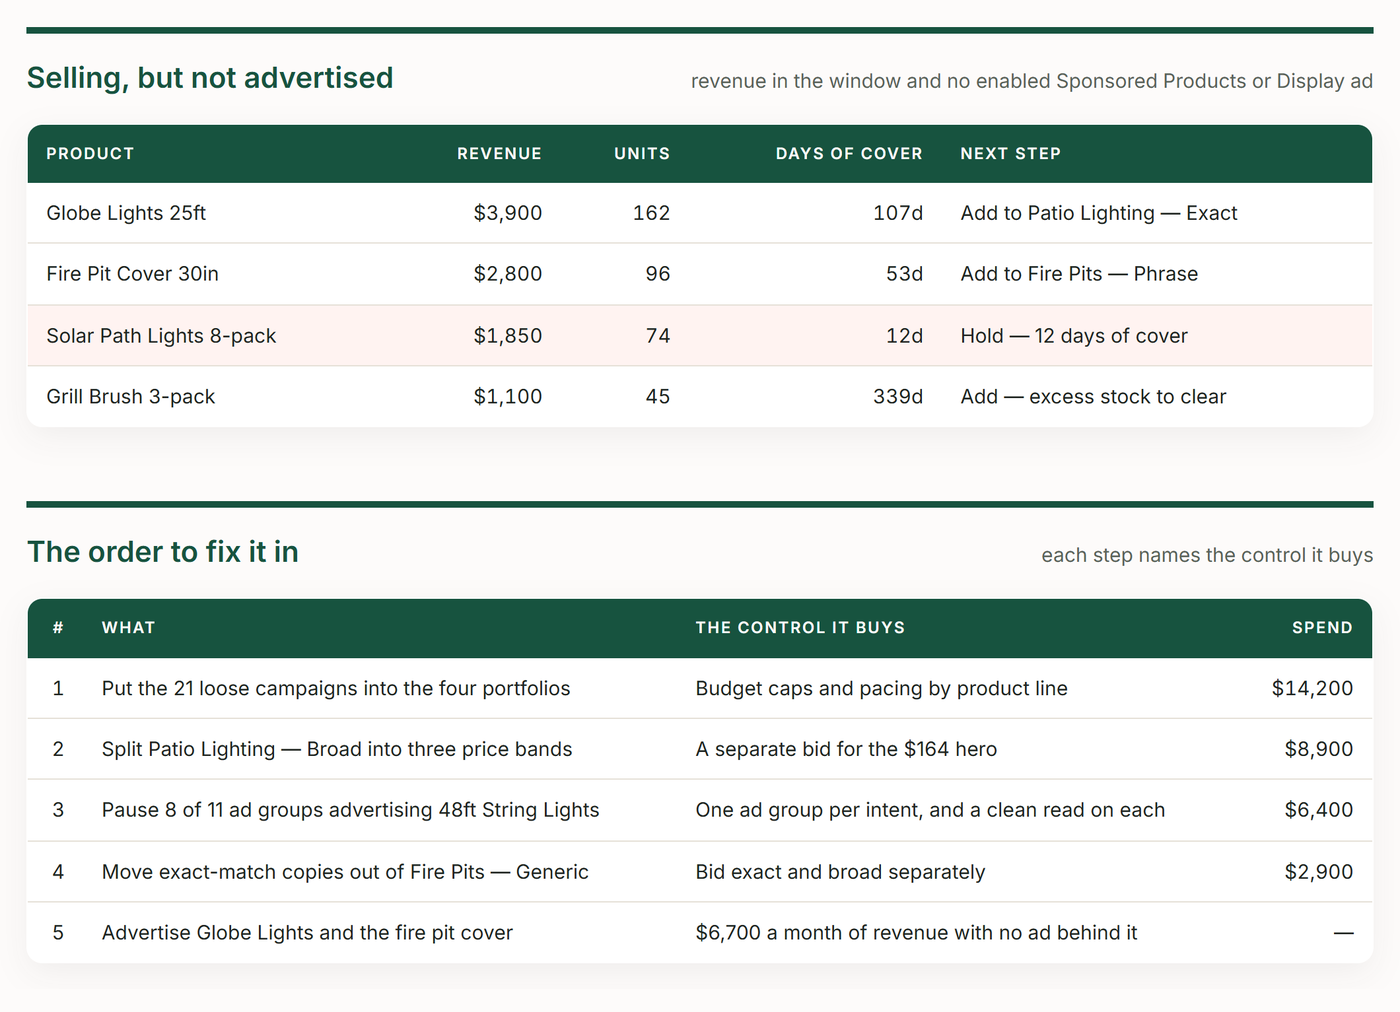
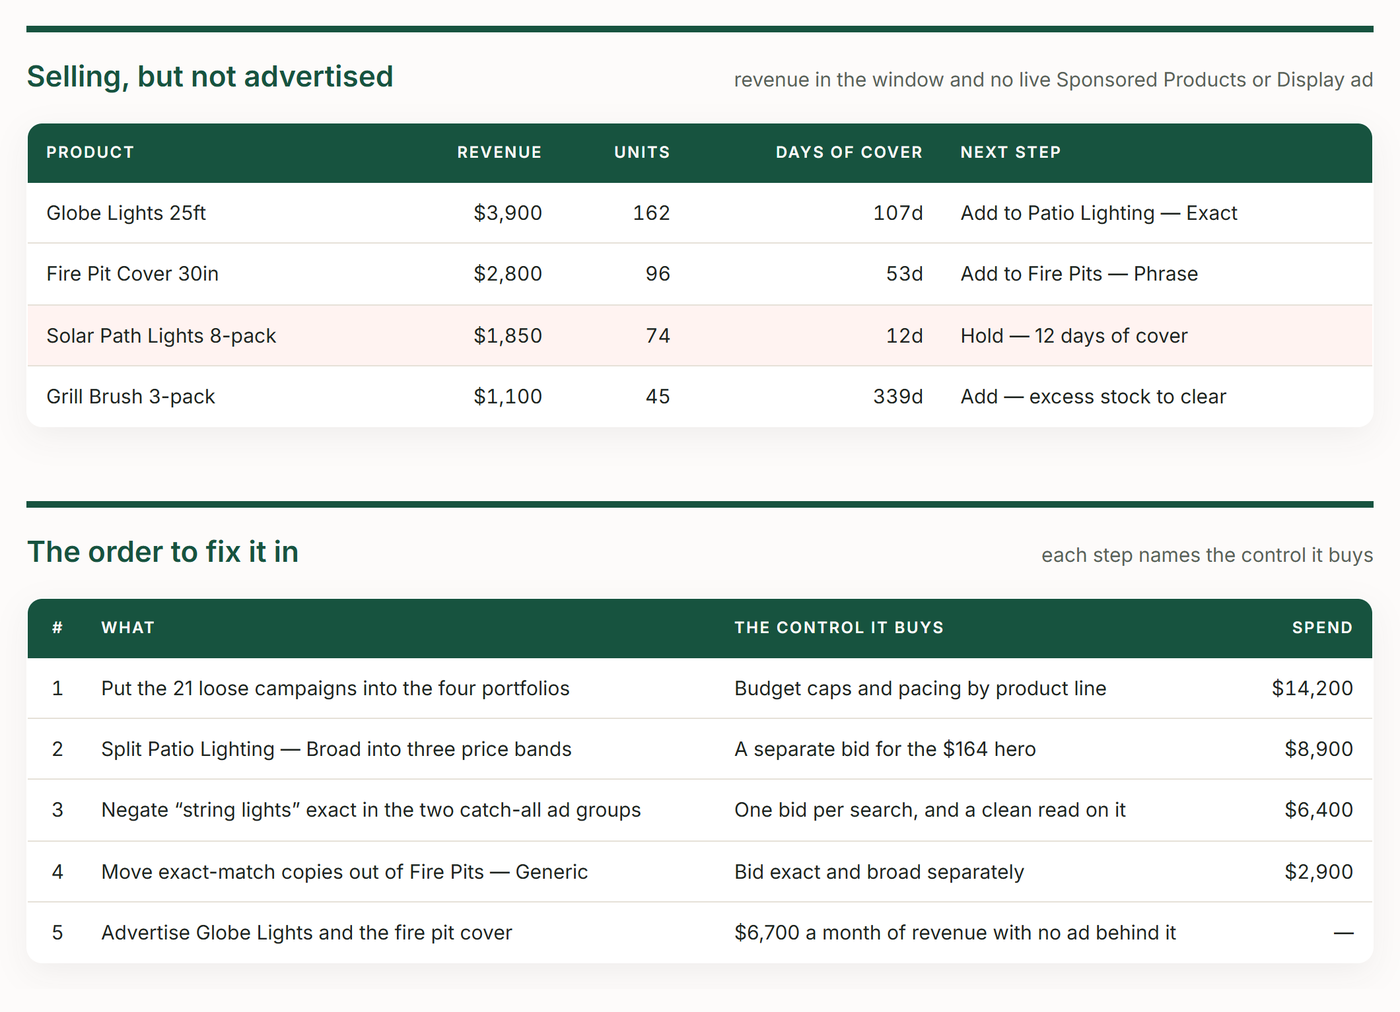
v1.1.0: fixes from a live-account test run
Judges live entities only (an enabled ad in a paused campaign no longer counts), replaces the ad-groups-per-product count with a check for one keyword bid on the same product from several ad groups, and reads portfolio coverage from portfolio_id.

diff --git a/skills/trackiq-amazon-campaign-structure-audit/assets/report-template.html b/skills/trackiq-amazon-campaign-structure-audit/assets/report-template.html
@@ -83,7 +83,7 @@ footer span{font-size:13px;color:var(--text-muted)}
   <p class="sub">How the account is built, and what that makes hard to steer</p>
   <div class="meta">
     <div><span>Window</span>{{WINDOW}}</div>
-    <div><span>Scope</span>Sponsored Products, Brands and Display &middot; enabled only</div>
+    <div><span>Scope</span>Sponsored Products, Brands and Display &middot; live entities only</div>
     <div><span>Campaigns</span>{{N_CAMPAIGNS}} enabled of {{N_CAMPAIGNS_ALL}}</div>
     <div><span>Account</span>{{MARKETPLACE}} {{ACCOUNT_TYPE}}</div>
   </div>
@@ -128,13 +128,14 @@ footer span{font-size:13px;color:var(--text-muted)}
 </section>
 
 <section>
-  <div class="cat-head"><h3>The same product in too many places</h3>
-    <div class="figs">advertised in more than {{SPREAD_MAX}} enabled ad groups</div></div>
+  <div class="cat-head"><h3>The same product bid twice on one search</h3>
+    <div class="figs">one keyword and match type in several live ad groups for the same product</div></div>
   <div class="tw"><table>
-    <thead><tr><th>Product</th><th class="n">Ad groups</th><th class="n">Spend</th>
-    <th>Keep</th><th class="n">Its ROAS</th></tr></thead>
+    <thead><tr><th>Keyword</th><th>Match</th><th class="n">Ad groups</th><th>Products</th>
+    <th class="n">Spend</th><th>Keep</th><th class="n">Its ROAS</th></tr></thead>
     <tbody>
-      <tr><td class="q">{{SP_PRODUCT}}</td><td class="n">{{SP_N}}</td><td class="n">{{SP_SPEND}}</td>
+      <tr><td class="q">{{SP_KEYWORD}}</td><td class="q">{{SP_MATCH}}</td><td class="n">{{SP_N}}</td>
+      <td class="q">{{SP_PRODUCTS}}</td><td class="n">{{SP_SPEND}}</td>
       <td class="q">{{SP_KEEP}}</td><td class="n">{{SP_KEEP_ROAS}}</td></tr>
     </tbody>
   </table></div>
@@ -158,7 +159,7 @@ footer span{font-size:13px;color:var(--text-muted)}
 
 <section>
   <div class="cat-head"><h3>Selling, but not advertised</h3>
-    <div class="figs">revenue in the window and no enabled Sponsored Products or Display ad</div></div>
+    <div class="figs">revenue in the window and no live Sponsored Products or Display ad</div></div>
   <div class="tw"><table>
     <thead><tr><th>Product</th><th class="n">Revenue</th><th class="n">Units</th>
     <th class="n">Days of cover</th><th>Next step</th></tr></thead>
@@ -197,5 +198,5 @@ footer span{font-size:13px;color:var(--text-muted)}
   </div>
 </section>
[1 lines of base64/hex data omitted]
-<span>{{WINDOW}} &middot; Sponsored Ads structure &middot; enabled entities only</span></footer>
+<span>{{WINDOW}} &middot; Sponsored Ads structure &middot; live entities only</span></footer>
 </div></body></html>

diff --git a/skills/trackiq-amazon-campaign-structure-audit/assets/method.md b/skills/trackiq-amazon-campaign-structure-audit/assets/method.md
@@ -8,7 +8,7 @@ brackets.
 
 ## 1. Crowded ad groups
 
-Distinct ASINs per **enabled** SP ad group, from `get_product_ads`.
+Distinct ASINs per **live** SP ad group, from `get_product_ads`.
 
 - Flag ad groups advertising more than **[5]** distinct ASINs.
 - Spend touched: the ad group's spend.
@@ -16,21 +16,31 @@ Distinct ASINs per **enabled** SP ad group, from `get_product_ads`.
   product in it. A $12 accessory and a $160 hero share one bid.
 - Fix: split by price band or product line so bids can differ.
 
-## 2. The same product everywhere
+## 2. The same product bid twice on one search
 
-Enabled SP ad groups per ASIN, from `get_product_ads`.
+Live SP product ads (pull 4) joined to live keywords (pull 5) on
+`ad_group_id`.
 
-- Flag ASINs advertised in more than **[6]** enabled ad groups.
-- Spend touched: the sum of that ASIN's product-ad spend.
-- Why it matters: the ad groups bid against one another for the same
-  shopper, and the report cannot say which one earned the sale.
-- Fix: keep one ad group per intent (brand, generic, competitor, auto) and
-  pause the rest. Name the one to keep — the highest ROAS with at least
-  **[10]** orders.
+- Flag a keyword — same normalised text, same match type — that is bid in
+  **two or more live ad groups advertising the same ASIN**. Those copies
+  enter the same auction for the same shopper and bid against each other,
+  and the report cannot say which one earned the sale.
+- **An ASIN in many ad groups is not a finding on its own.** Accounts split
+  by intent — a campaign per match type, keyword theme, auto targeting
+  group, brand or generic — put a hero product in twenty or more ad groups
+  on purpose. Show the count for context; flag only the overlap.
+- Spend touched: the spend of the overlapping keyword copies, each keyword
+  counted once even when its ad group holds several flagged ASINs.
+- Report one row per keyword and match type, listing its ad groups and
+  products.
+- Fix: keep the copy in the ad group built for that intent — a
+  single-keyword or exact campaign over a multi-keyword catch-all — or, if
+  none is, the one with the highest ROAS on at least **[10]** orders. Negate
+  or pause the others. Negatives are not visible to this skill; say so.
 
 ## 3. Match-type stacking
 
-Keywords from `get_targets` (`record_type='KEYWORD'`), enabled only. Group by
+Keywords from `get_targets` (`record_type='KEYWORD'`), live only. Group by
 `ad_group_id` and normalised keyword text.
 
 - Flag any keyword present in two or more match types **inside one ad group**.
@@ -40,15 +50,21 @@ Keywords from `get_targets` (`record_type='KEYWORD'`), enabled only. Group by
 - Fix: move the exact copy to its own exact ad group and negate it in the
   broad one. Say that negatives are not visible to this skill.
 
-The same keyword in *different* ad groups is a wasted-spend finding, not a
-structure one — leave it to `trackiq-amazon-wasted-spend`.
+The same keyword in *different* ad groups for the same product is check 2.
+The same keyword across unrelated products is a wasted-spend question — leave
+it to `trackiq-amazon-wasted-spend`.
 
 ## 4. Spend outside any portfolio
 
+Every `get_campaigns` row carries `portfolio_id`; it is null when the
+campaign sits outside any portfolio.
+
 ```
-outside = total campaign spend (pull 1, enabled) - sum of portfolio spend (pull 2, enabled)
-share   = outside / total campaign spend
+outside = spend of enabled campaigns whose portfolio_id is null
+share   = outside / spend of all enabled campaigns
 ```
+
+Use `get_portfolios` for portfolio names only.
 
 - Flag when `share` exceeds **[10%]**.
 - Spend touched: `outside`.
@@ -57,8 +73,9 @@ share   = outside / total campaign spend
 
 ## 5. Selling products with no ad
 
-ASINs with ordered revenue in `get_product_performance` and no **enabled**
-SP or SD product ad in `get_product_ads`. Join on uppercase ASIN.
+ASINs with ordered revenue in `get_product_performance` and no **live**
+SP or SD product ad in `get_product_ads`. An ASIN whose only enabled ads sit
+in paused campaigns is unadvertised. Join on uppercase ASIN.
 
 - Flag when the ASIN's revenue in the window exceeds **[$500]**.
 - Spend touched: none — rank these by revenue instead, in their own table.

diff --git a/skills/trackiq-amazon-campaign-structure-audit/SKILL.md b/skills/trackiq-amazon-campaign-structure-audit/SKILL.md
@@ -1,6 +1,6 @@
 ---
 name: trackiq-amazon-campaign-structure-audit
-description: Audits how an Amazon Sponsored Ads account is built rather than how it performed last week — ad groups crowded with unrelated products, the same product advertised in a dozen ad groups competing with itself, keywords stacked in every match type inside one ad group, spend sitting outside any portfolio, and selling products with no ad at all — ranked by the spend each problem touches, with a fix order the team can work through. Use when the user asks for an account structure audit, campaign structure review, PPC account audit, restructure plan, account cleanup, portfolio setup, ad group hygiene, cannibalization between ad groups, or which products are not advertised.
+description: Audits how an Amazon Sponsored Ads account is built rather than how it performed last week — ad groups crowded with unrelated products, the same product bid twice on one search from different ad groups, keywords stacked in every match type inside one ad group, spend sitting outside any portfolio, and selling products with no ad at all — ranked by the spend each problem touches, with a fix order the team can work through. Use when the user asks for an account structure audit, campaign structure review, PPC account audit, restructure plan, account cleanup, portfolio setup, ad group hygiene, cannibalization between ad groups, or which products are not advertised.
 ---
 
 # Sponsored Ads Structure Audit
@@ -43,8 +43,10 @@ paste it into their project instructions once.
 1. **Rank findings by the spend they touch, never by count.** Forty crowded
    ad groups spending $300 between them matter less than one spending
    $9,000. A finding with no spend behind it is listed, not prioritised.
-2. **Judge structure on enabled entities only.** Pull `state='all'` so the
-   totals reconcile, then filter to `enabled` before flagging anything.
+2. **Judge structure on live entities only.** Pull `state='all'` so the
+   totals reconcile, then keep an ad or keyword only when it, its ad group
+   and its campaign are all enabled. An enabled ad in a paused campaign
+   serves nothing.
    Archived clutter is not a structural problem; recommending changes to
    paused ad groups is noise.
 3. **Never recommend restructuring something that is working just to make
@@ -53,14 +55,15 @@ paste it into their project instructions once.
 4. **Sponsored Brands has no product ads.** `get_product_ads` covers SP and
    SD only. Product-coverage checks say so rather than implying SB was
    checked.
-5. **Paginate until a pull returns fewer rows than the limit.** Targets and
+5. **Paginate until a pull returns fewer rows than the limit** — not until
+   `next_cursor` is null. Targets and
    product ads cap out on any real account. If you stop early, call every
    count a floor.
-6. **Portfolio coverage is arithmetic, not a join.** Spend outside any
-   portfolio = total campaign spend minus the sum of portfolio spend, over
-   the same window and states. State the window.
+6. **Portfolio coverage comes from `portfolio_id`.** Spend outside any
+   portfolio = spend of enabled campaigns whose `portfolio_id` is null.
+   State the window.
 7. **An unadvertised product needs sales to matter.** Only flag ASINs with
-   ordered revenue in the window and no enabled product ad — and check
+   ordered revenue in the window and no live product ad — and check
    stock before recommending ads on one.
 8. **Never mix ID namespaces.** Only Sponsored Ads IDs belong in this report.
    AMC `campaign_id`s are a different namespace and never join to these.
@@ -98,7 +101,7 @@ outward channel.
 
 ## Version
 
-`trackiq-amazon-campaign-structure-audit` v1.0.0 (2026-09-21).
+`trackiq-amazon-campaign-structure-audit` v1.1.0 (2026-09-21).
 
 If the user asks whether this skill is current, fetch
 `https://trackiq.com/skills/registry.json`, compare the `version` field for

diff --git a/skills/trackiq-amazon-campaign-structure-audit/assets/pulls.md b/skills/trackiq-amazon-campaign-structure-audit/assets/pulls.md
@@ -24,8 +24,15 @@ weighted by spend, and 30 days is the widest window the daily tools keep.
 ## 2. State is the first trap
 
 Every Sponsored Ads tool **defaults to `state='enabled'`**. Pull `'all'` so
-the account totals reconcile to the console, then filter to `enabled`
-before any check runs. Say in the report which states were counted.
+the account totals reconcile to the console, then filter to **live**
+entities before any check runs. Say in the report which states were counted.
+
+A product ad or keyword is **live** only when it, its ad group and its
+campaign are all enabled. The entity's own `state` is not enough: an enabled
+ad inside a paused campaign reads `enabled` and serves nothing, and on a
+mature account a third of enabled ads can sit in paused campaigns. Map each
+row to its campaign through `ad_group_id` (pull 3) and check the campaign's
+`state` (pull 1).
 
 `'all'` on `ad_type` blends attribution windows (SP 7 days, SB and SD 14).
 That is fine for weighting findings by spend — spend has no window — but do
@@ -35,6 +42,7 @@ not quote a blended ROAS as if it were one channel's.
 
 `get_product_ads` and `get_targets` return exactly `limit` rows on any real
 account. Page with `offset` until a call returns fewer rows than the limit.
+Do not stop on `next_cursor`: it can be `null` on a full page.
 If you stop early, say so and call every count a floor.
 
 ## 4. What the data will not tell you
@@ -45,8 +53,9 @@ If you stop early, say so and call every count a floor.
   term. Say so on that finding.
 - **No budgets or budget caps.** Capping-out is a pacing question; send the
   user to `trackiq-amazon-budget-pacing` for it.
-- **No campaign-to-portfolio mapping on every row.** Portfolio coverage is
-  computed from totals — see `method.md`.
+- **Product and auto targets often carry no text.** `targeting_text` comes
+  back null on many `record_type='TARGET'` rows, so overlap between product
+  or auto targets cannot be checked. Say so.
 
 ## 5. The ID rule
 

diff --git a/README.md b/README.md
@@ -33,7 +33,7 @@ Works with Claude, ChatGPT and Cursor. **[Get access →](https://trackiq.com/mc
 
 ![A TrackIQ: Amazon Sponsored Ads Structure Audit report](.github/page/hero.png)
 
-Audits how an Amazon Sponsored Ads account is built rather than how it performed last week — ad groups crowded with unrelated products, the same product advertised in a dozen ad groups competing with itself, keywords stacked in every match type inside one ad group, spend sitting outside any portfolio, and selling products with no ad at all — ranked by the spend each problem touches, with a fix order the team can work through. Use when the user asks for an account structure audit, campaign structure review, PPC account audit, restructure plan, account cleanup, portfolio setup, ad group hygiene, cannibalization between ad groups, or which products are not advertised.
+Audits how an Amazon Sponsored Ads account is built rather than how it performed last week — ad groups crowded with unrelated products, the same product bid twice on one search from different ad groups, keywords stacked in every match type inside one ad group, spend sitting outside any portfolio, and selling products with no ad at all — ranked by the spend each problem touches, with a fix order the team can work through. Use when the user asks for an account structure audit, campaign structure review, PPC account audit, restructure plan, account cleanup, portfolio setup, ad group hygiene, cannibalization between ad groups, or which products are not advertised.
 
 ### The rules that keep it honest
 

diff --git a/skills/trackiq-amazon-campaign-structure-audit/assets/checks.md b/skills/trackiq-amazon-campaign-structure-audit/assets/checks.md
@@ -10,8 +10,9 @@
 
 ## 2. Is every finding real?
 
-- **No paused or archived entity appears in a finding.** Spot-check three.
-- Every crowded ad group and every multi-ad-group ASIN names its ad groups.
+- **No paused or archived entity appears in a finding**, and no enabled ad
+  or keyword whose campaign is paused. Spot-check three.
+- Every crowded ad group and every overlapping keyword names its ad groups.
 - Every unadvertised product has revenue in the window and has been checked
   against stock.
 - The match-type stacking section says negatives are not visible.

diff --git a/skills/trackiq-amazon-campaign-structure-audit/assets/account.example.md b/skills/trackiq-amazon-campaign-structure-audit/assets/account.example.md
@@ -61,7 +61,6 @@ Thresholds for `trackiq-amazon-campaign-structure-audit`. Defaults suit most bra
 | Field | Value |
 |---|---|
 | Max products per ad group | 5 |
-| Max ad groups per product | 6 |
 | Min orders to name a keeper | 10 |
 | Max spend outside portfolios | 10% |
 | Min revenue to flag an unadvertised product | $500 |
